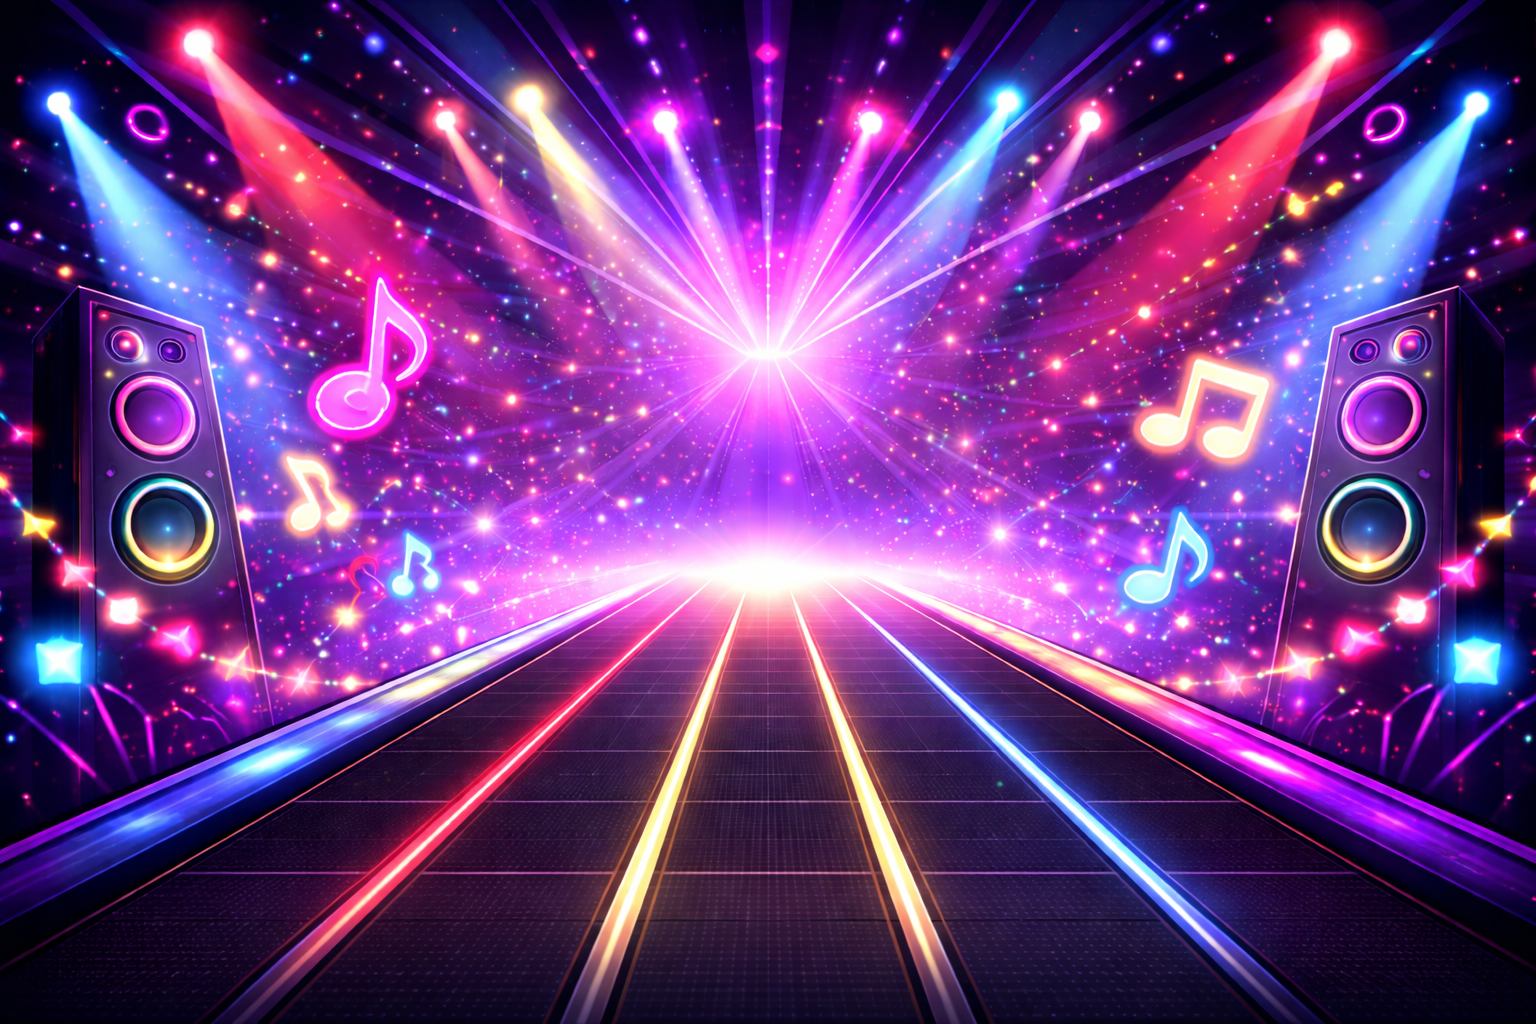
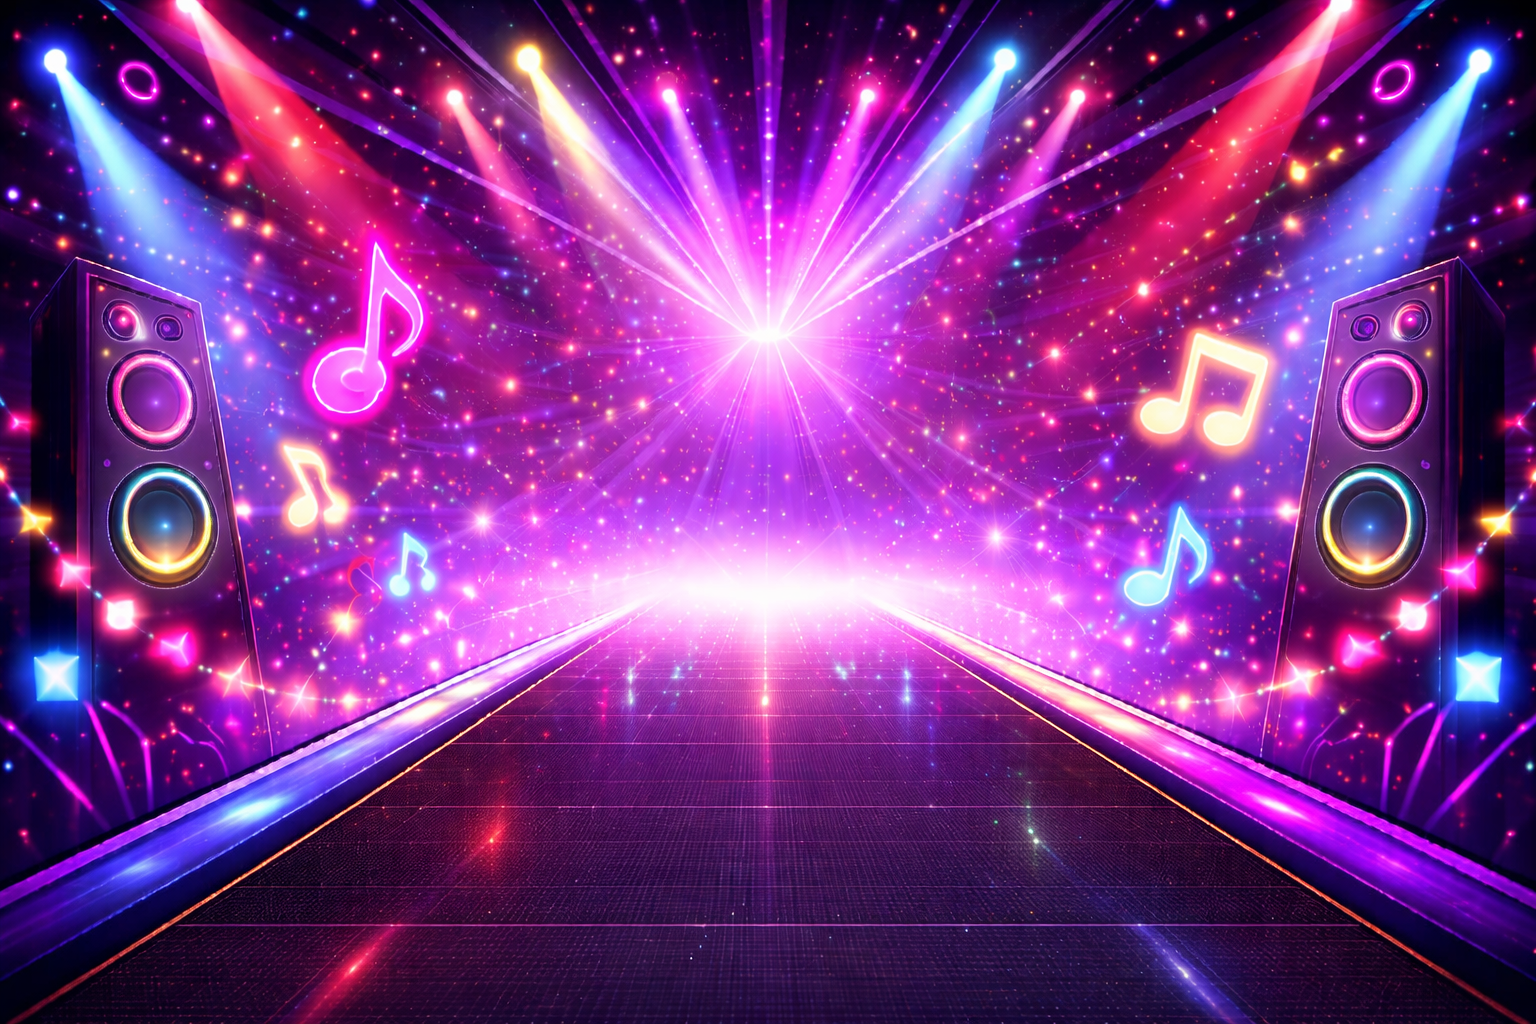
Cambio de codigo y nueva Imagen
Se cambio de imagen para que coincida con el juego armado y también se modifico un poco el código para que coincida con el escenario correcto.
Falta la visibilidad concreta y no desapegada al botón y revisión humana.

diff --git a/dance-start.py b/dance-start.py
@@ -3,6 +3,9 @@ import pygame,random,sys
 width=800  
 height=600 
 BLACK=(0,0,0)  
+HORIZON_Y = 280  
+LANE_X_TARGETS = [280, 400, 520] 
+HIT_ZONE_Y = 530
 pygame.mixer.init()
 songs=[
     {"name":"Cancion 1","file":"music/A Rising Wave - Jeremy Blake.mp3"},
@@ -49,60 +52,80 @@ button_states = {
 }
 score=0
 combo=0
+feedback_message = ""
+feedback_timer = 0  
+feedback_color = (255, 255, 255) 
 notes=[]
 note_speed=4
+
 def spawn_note():
     lane = random.randint(0, 2)
-    colors = [(255, 50, 50), (50, 100, 255), (255, 255, 50)]
-    lane_positions = {0: 210, 1: 320, 2: 430}  # Centros de los carriles
+    colors = [(255, 50, 50), (50, 150, 255), (255, 255, 50)]
     
     note = {
         "lane": lane,
-        "x": lane_positions[lane],
-        "y": 0,  # Empieza desde arriba
+        "x": 400,         # <--- ESTO ES LO QUE FALTA (KeyError: 'x')
+        "y": 280,         # HORIZON_Y (donde está el brillo en la imagen)
         "color": colors[lane],
         "hit": False
     }
     notes.append(note)
 def draw_lanes():
-    pygame.draw.line(screen, (255, 80, 80), (210, 0), (210, 500), 6)
-    
 
-    pygame.draw.line(screen, (80, 150, 255), (320, 0), (320, 500), 6)
-    
-
-    pygame.draw.line(screen, (255, 255, 80), (430, 0), (430, 500), 6)
-
+    lane_colors = [(200, 0, 0), (0, 100, 255), (200, 200, 0)]
+    for i in range(3):
+        pygame.draw.line(screen, lane_colors[i], (400, HORIZON_Y), (LANE_X_TARGETS[i], 600), 5)
 def draw_hit_line():
-    hit_zone = pygame.Surface((500, 60))
+    hit_zone = pygame.Surface((400, 60))
     hit_zone.set_alpha(80)
     hit_zone.fill((255, 255, 255))
-    screen.blit(hit_zone, (130, 440))
-
-    pygame.draw.line(screen, (255, 255, 255), (130, 440), (630, 440), 3)
-    pygame.draw.line(screen, (255, 255, 255), (130, 500), (630, 500), 3)
+    screen.blit(hit_zone, (180, 420)) 
+    
+    
+    pygame.draw.line(screen, (255, 255, 255), (180, 420), (580, 420), 3)
+    pygame.draw.line(screen, (255, 255, 255), (180, 480), (580, 480), 3)
 
 def update_notes():
     global combo, score
+
+    HORIZON_Y = 280
+    LANE_X_TARGETS = [280, 400, 520] 
+    HIT_ZONE_Y = 530 
+
     for note in notes[:]:
         note["y"] += note_speed
         
-        if note["y"] > 520 and not note["hit"]:
+
+        progress = (note["y"] - HORIZON_Y) / (HIT_ZONE_Y - HORIZON_Y)
+        progress = max(0, progress)
+        
+
+        target_x = LANE_X_TARGETS[note["lane"]]
+        note["x"] = 400 + (target_x - 400) * progress  
+        
+ 
+        if note["y"] > HIT_ZONE_Y + 50 and not note["hit"]:
             notes.remove(note)
             combo = 0
-            print("❌ MISS!")
-        
-        elif note["y"] > height and note["hit"]:
+            print("❌ MISS CLICK")
+        elif note["y"] > 600 and note["hit"]:
             notes.remove(note)
-
 def draw_notes():
     for note in notes:
         if not note["hit"]:
-            pygame.draw.circle(screen, note["color"], (note["x"], int(note["y"])), 25)
-
-            pygame.draw.circle(screen, (255, 255, 255), (note["x"], int(note["y"])), 25, 4)
+            distancia_recorrida = note["y"] - HORIZON_Y
+            progress = max(0, distancia_recorrida / 300)
             
-            pygame.draw.circle(screen, (255, 255, 255), (note["x"], int(note["y"])), 10)
+
+            radius = int(8 + (24 * progress))
+            
+
+            pygame.draw.circle(screen, note["color"], (int(note["x"]), int(note["y"])), radius)
+            
+
+            pygame.draw.circle(screen, (255, 255, 255), (int(note["x"]), int(note["y"])), radius, 2)
+            
+            pygame.draw.circle(screen, (255, 255, 255), (int(note["x"]), int(note["y"])), radius // 3)
 
 def check_hit(lane):
     global score, combo
@@ -110,16 +133,40 @@ def check_hit(lane):
     lane_num = lane_map.get(lane, -1)
     
     for note in notes:
-        if note["lane"] == lane_num and 420 < note["y"] < 520 and not note["hit"]:
+        # Verificamos que la nota esté en el carril correcto y cerca del HIT_ZONE_Y
+        if note["lane"] == lane_num and abs(note["y"] - HIT_ZONE_Y) < 40 and not note["hit"]:
             note["hit"] = True
-            score += 100 + (combo * 10)
+            score += 100
             combo += 1
-            print(f"✅ HIT! +{100 + (combo * 10)} - Combo: {combo}x")
+            print(f"🔥 GOOD CLICK! Combo: {combo}")
             return True
-    
+            
+    print("💀 MISS CLICK (A destiempo)")
     combo = 0
-    print("❌ Miss - combo perdido")
     return False
+   
+def draw_feedback():
+    global feedback_timer
+    
+    if feedback_timer > 0:
+        alpha = min(255, feedback_timer * 8)
+        
+        font = pygame.font.SysFont("Arial", 60, bold=True)
+        text = font.render(feedback_message, True, feedback_color)
+        text_rect = text.rect(center=(width//2, 150))
+        
+        bg_surface = pygame.Surface((text.get_width() + 40, text.get_height() + 20))
+        bg_surface.set_alpha(alpha // 2)
+        bg_surface.fill((0, 0, 0))
+        screen.blit(bg_surface, (text_rect.x - 20, text_rect.y - 10))
+        
+
+        text_surface = font.render(feedback_message, True, feedback_color)
+        text_surface.set_alpha(alpha)
+        screen.blit(text_surface, text_rect)
+        
+        feedback_timer -= 1 
+
 
 
 clock=pygame.time.Clock() 
@@ -158,21 +205,21 @@ def draw_game():
     draw_song_display()
     draw_hit_line()
     draw_notes()
-
+    draw_feedback()
     if button_states['a']:
-            screen.blit(button_red_pressed,(190,500))
+        screen.blit(button_red_pressed, (LANE_X_TARGETS[0] - 40, HIT_ZONE_Y - 40))
     else:
-        screen.blit(button_red,(190,500))
+        screen.blit(button_red, (LANE_X_TARGETS[0] - 40, HIT_ZONE_Y - 40))
         
     if button_states['s']:
-        screen.blit(button_blue_pressed,(300, 500))
+        screen.blit(button_blue_pressed, (LANE_X_TARGETS[1] - 40, HIT_ZONE_Y - 40))
     else:
-        screen.blit(button_blue,(300, 500))
+        screen.blit(button_blue, (LANE_X_TARGETS[1] - 40, HIT_ZONE_Y - 40))
         
     if button_states['d']:
-        screen.blit(button_yellow_pressed,(410,500))
+        screen.blit(button_yellow_pressed, (LANE_X_TARGETS[2] - 40, HIT_ZONE_Y - 40))
     else:
-        screen.blit(button_yellow,(410,500))
+        screen.blit(button_yellow, (LANE_X_TARGETS[2] - 40, HIT_ZONE_Y - 40))
 
 def play_random_song():
     global current_song